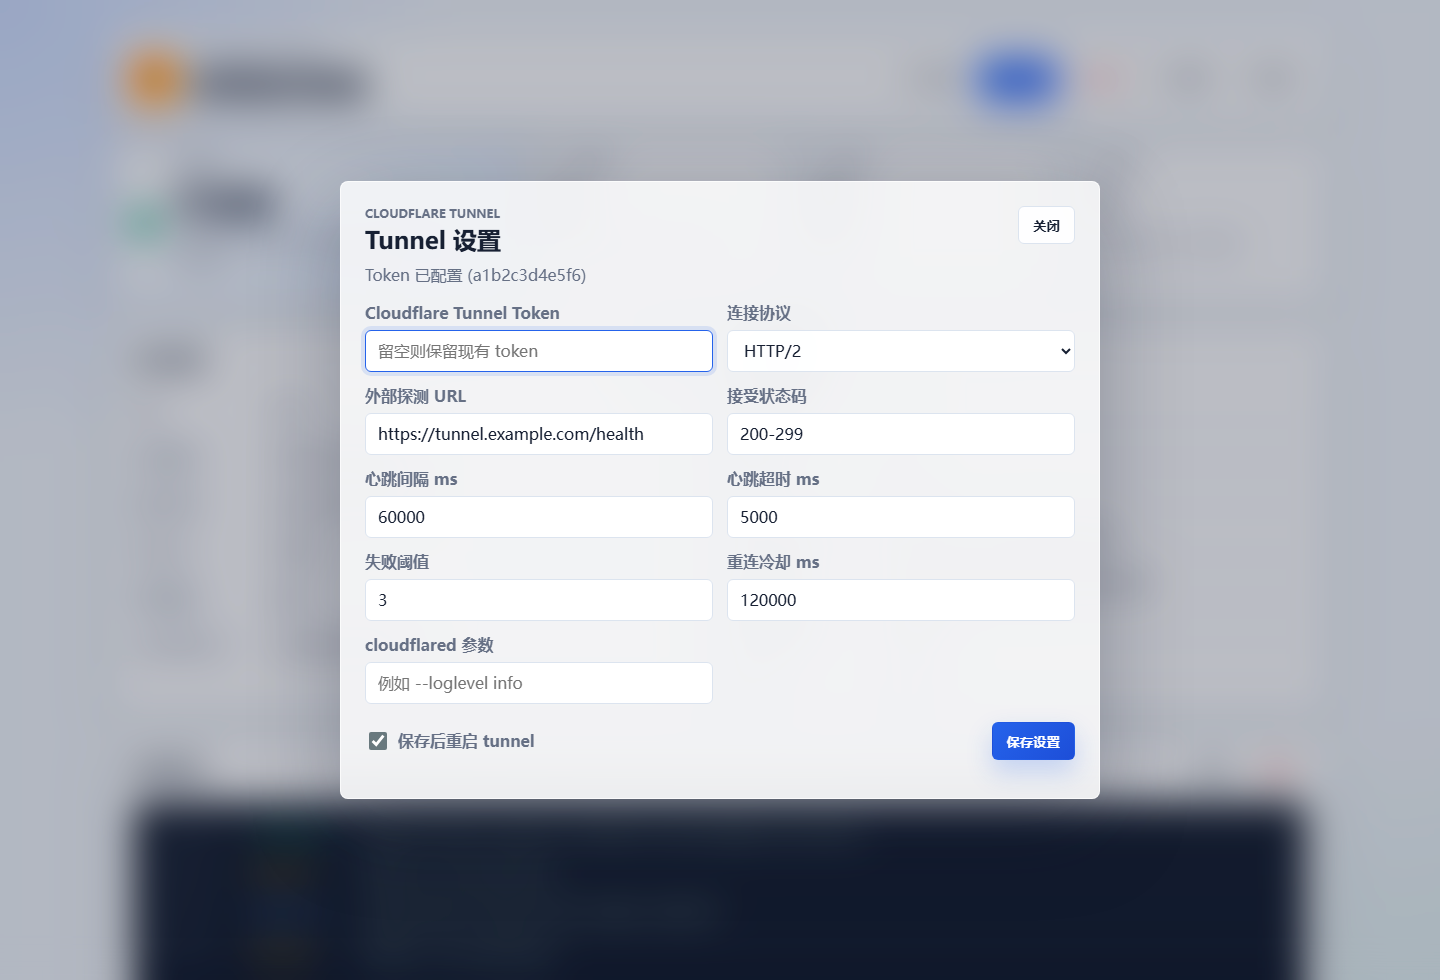
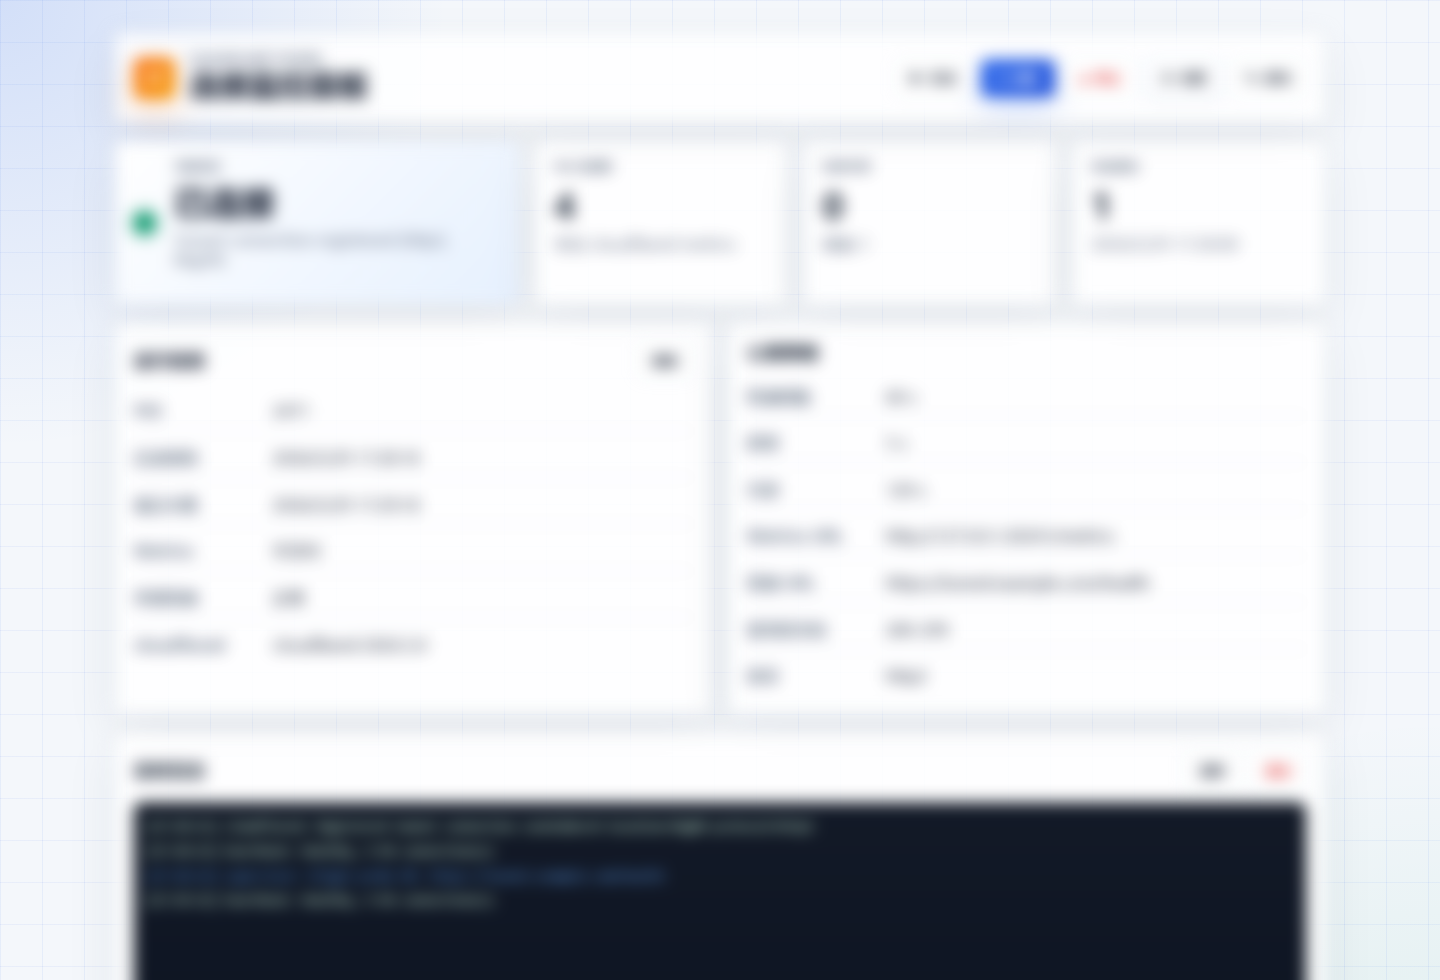
Simplify live log layout

diff --git a/public/styles.css b/public/styles.css
@@ -376,62 +376,40 @@ dd {
   font-family: "Cascadia Code", "SFMono-Regular", Consolas, monospace;
   font-size: 13px;
   line-height: 1.6;
-}
-
-.log-row {
-  display: grid;
-  grid-template-columns: 86px 104px minmax(0, 1fr);
-  gap: 10px;
-  padding: 7px 8px;
-  border: 1px solid rgba(255, 255, 255, 0.04);
-  border-radius: 6px;
-  background: rgba(255, 255, 255, 0.025);
-}
-
-.log-row + .log-row {
-  margin-top: 3px;
-}
-
-.log-time {
-  color: #7b8797;
-}
-
-.log-source {
-  font-weight: 900;
-}
-
-.log-line {
-  min-width: 0;
+  white-space: pre-wrap;
   overflow-wrap: anywhere;
 }
 
-.source-supervisor .log-source {
+.log-entry {
+  min-width: 0;
+  padding: 1px 0;
+}
+
+.log-entry + .log-entry {
+  margin-top: 2px;
+}
+
+.source-supervisor {
   color: #60a5fa;
 }
 
-.source-cloudflared .log-source {
+.source-cloudflared {
   color: #34d399;
 }
 
-.source-heartbeat .log-source {
+.source-heartbeat {
   color: #fbbf24;
 }
 
-.level-ok .log-line {
+.level-ok {
   color: #d1fadf;
 }
 
-.level-warn .log-line {
+.level-warn {
   color: #fde68a;
 }
 
 .level-error {
-  border-color: rgba(251, 113, 133, 0.22);
-  background: rgba(127, 29, 29, 0.18);
-}
-
-.level-error .log-source,
-.level-error .log-line {
   color: #fb7185;
 }
 

diff --git a/public/app.js b/public/app.js
@@ -107,21 +107,8 @@ function filterVisibleLogs(entries) {
 function paintLogs() {
   logsEl.replaceChildren(...localLogs.map((entry) => {
     const row = document.createElement('div');
-    row.className = `log-row ${sourceClass(entry.source)} ${severityClass(entry.line)}`;
-
-    const time = document.createElement('span');
-    time.className = 'log-time';
-    time.textContent = formatLogTime(entry.ts);
-
-    const source = document.createElement('span');
-    source.className = 'log-source';
-    source.textContent = entry.source;
-
-    const line = document.createElement('span');
-    line.className = 'log-line';
-    line.textContent = entry.line;
-
-    row.append(time, source, line);
+    row.className = `log-entry ${sourceClass(entry.source)} ${severityClass(entry.line)}`;
+    row.textContent = `[${formatLogTime(entry.ts)}] ${entry.source || 'unknown'}: ${entry.line}`;
     return row;
   }));
   logsEl.scrollTop = logsEl.scrollHeight;